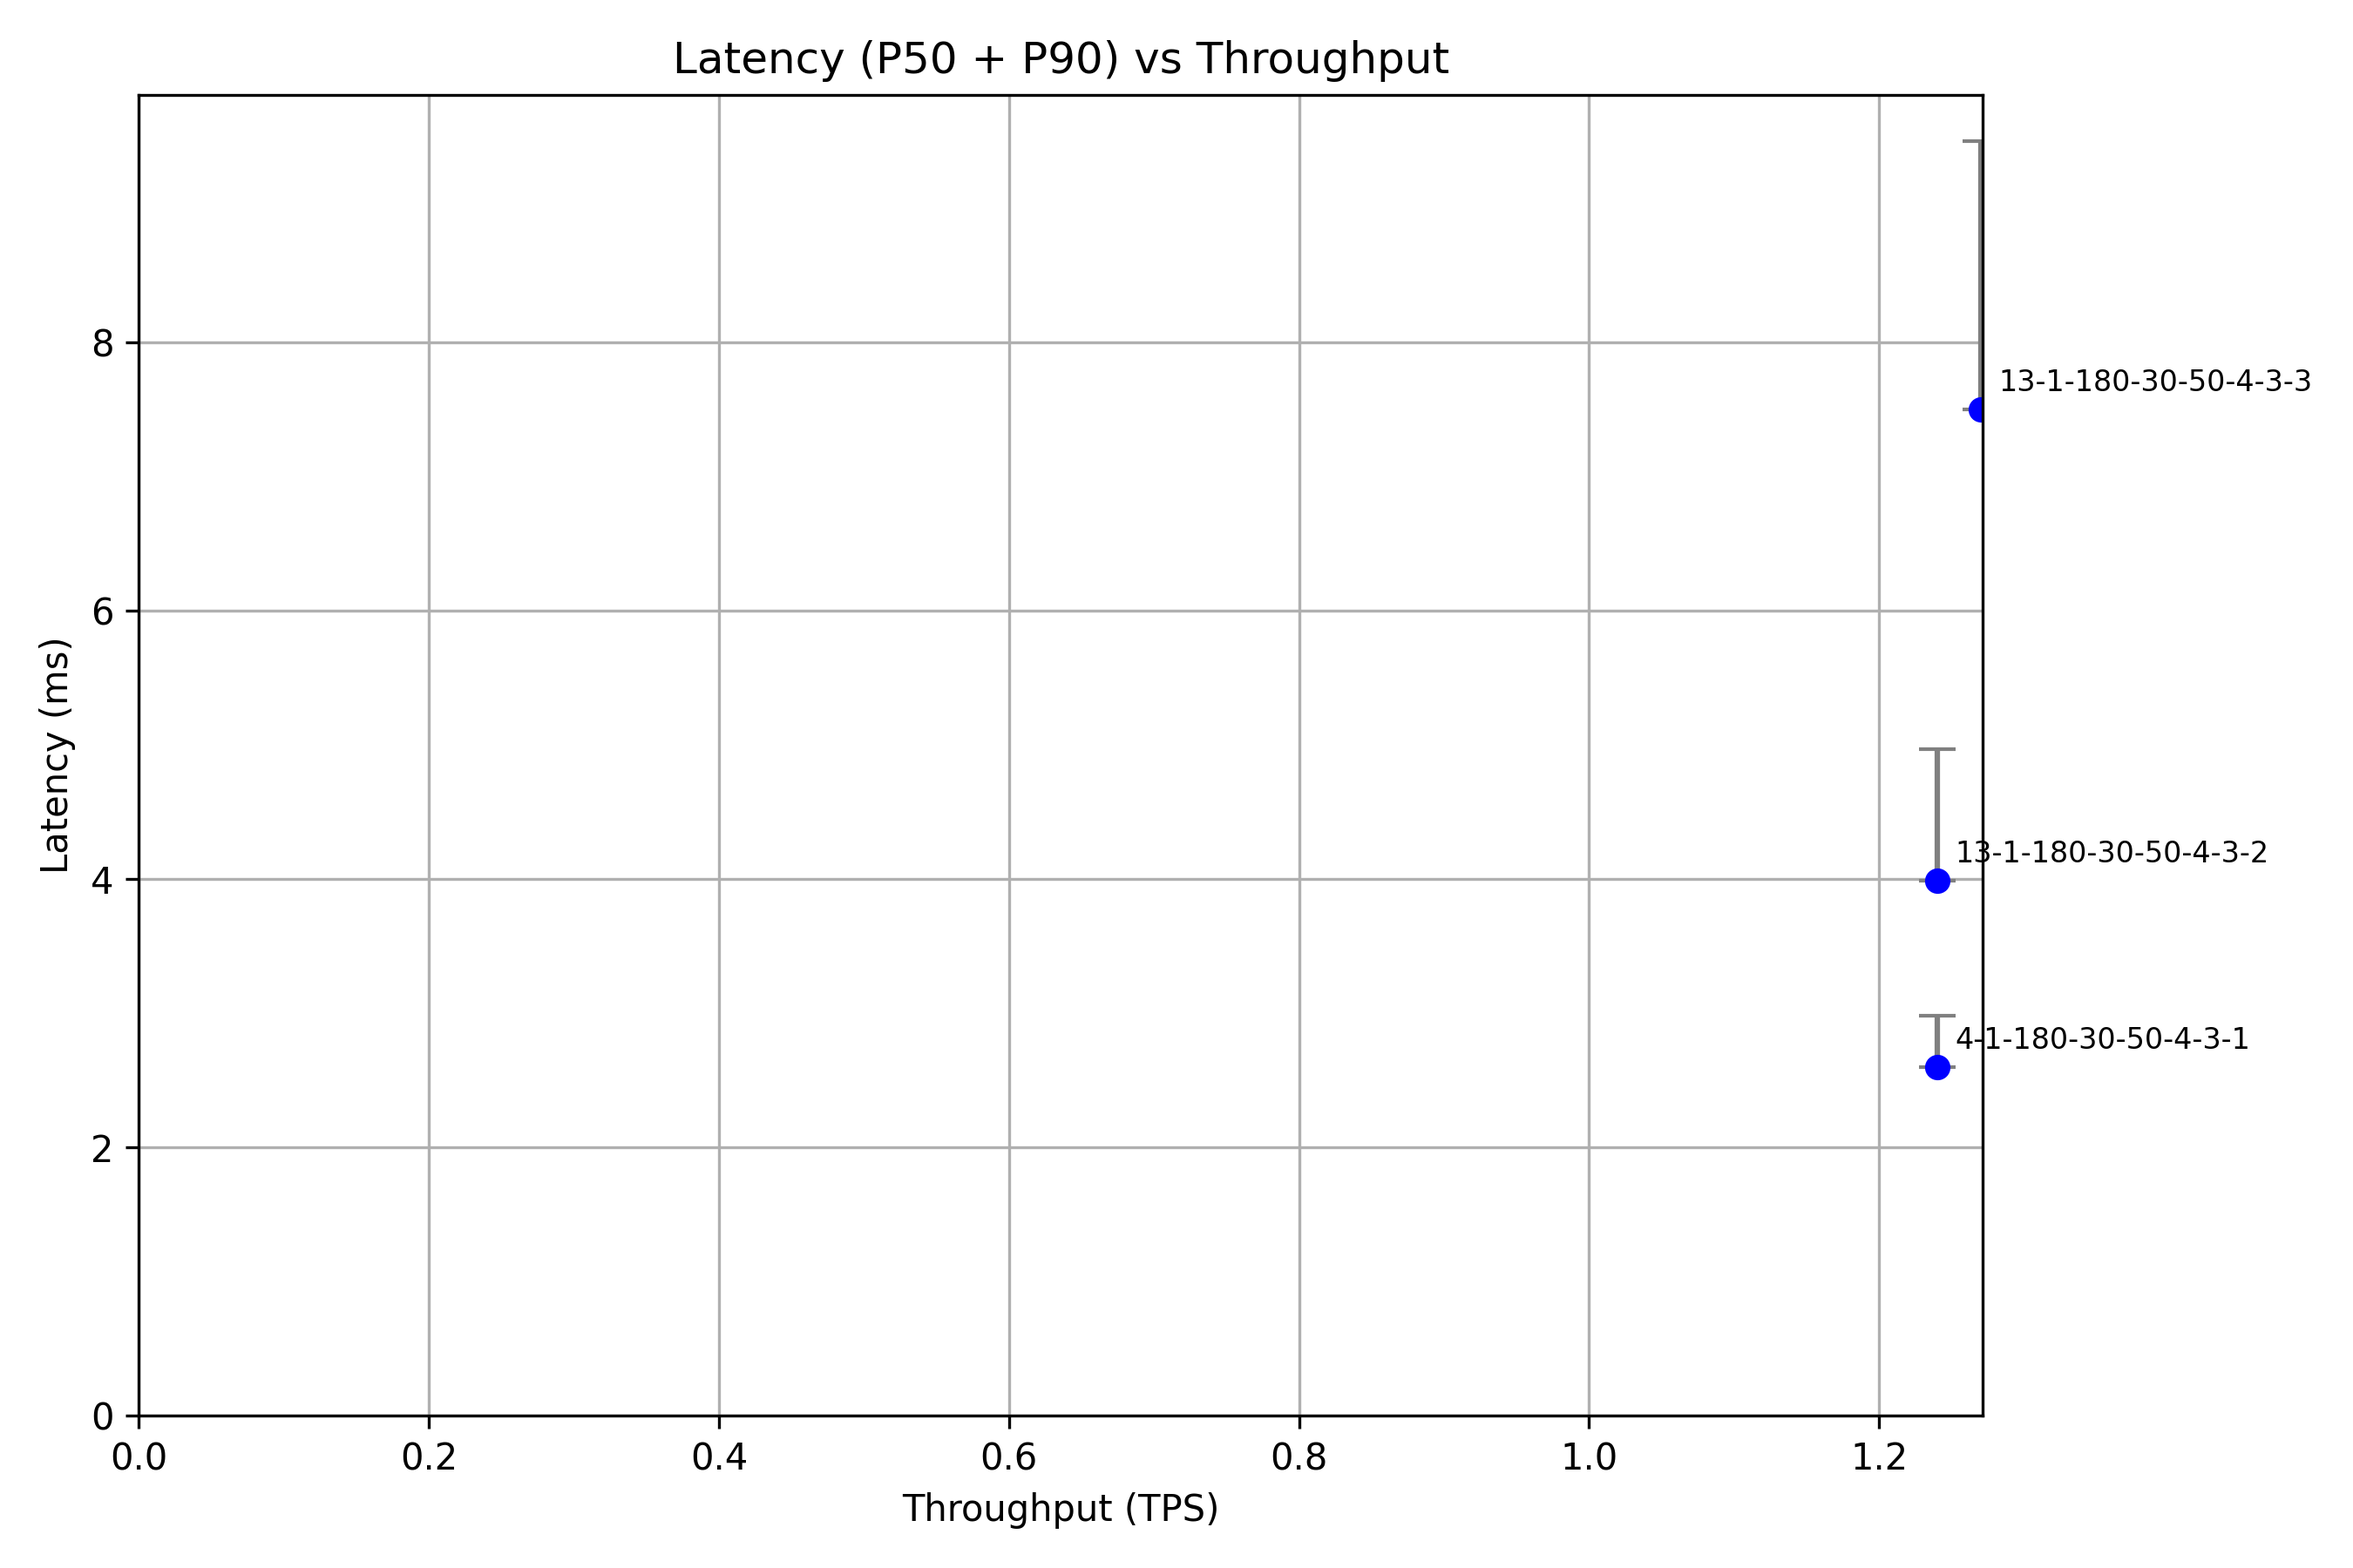
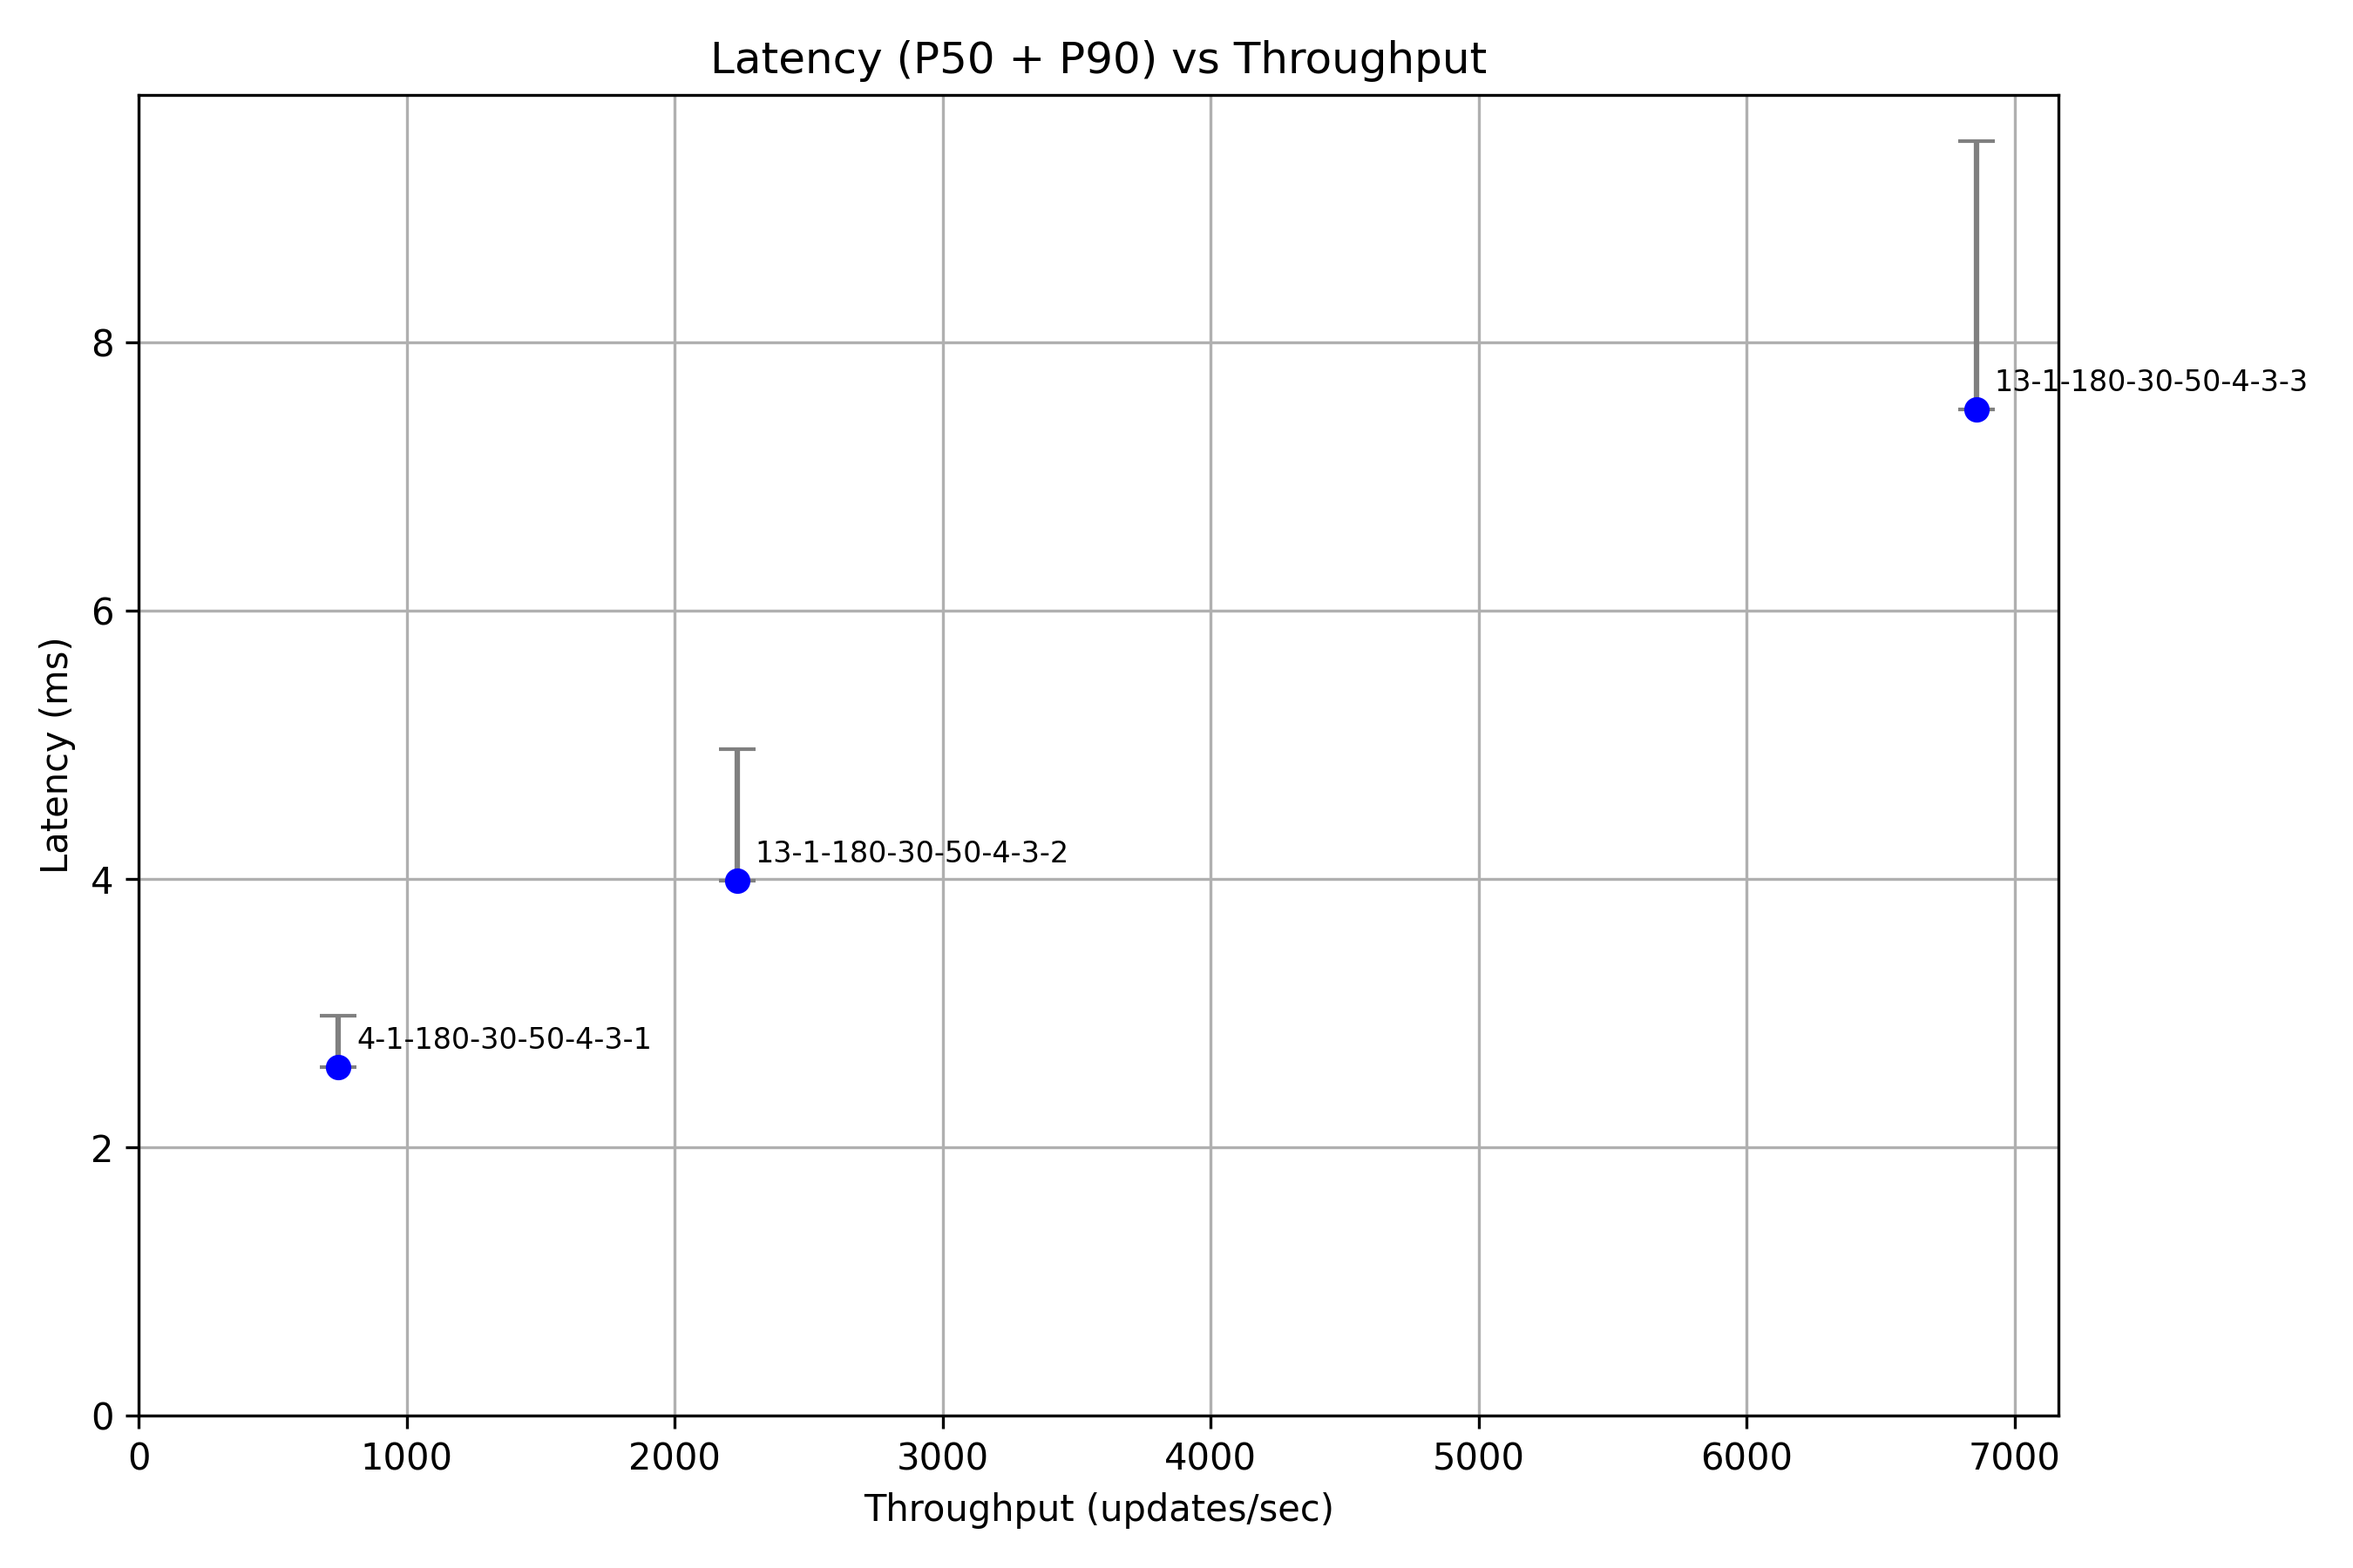
feat: fix graphs with updates/s (#48)

diff --git a/results/plot.py b/results/plot.py
@@ -18,9 +18,21 @@ def read_column_values(csv_path):
 # === Latency vs Throughput plot ===
 
 
-def read_throughput_values(csv_path):
+def read_throughput_values(csv_path, folder_name):
+    parameters = folder_name.split("-")
+    batch_size = parameters[4]
+    num_batches_per_sub_bundle = parameters[5]
+    branching_factor = parameters[6]
+    num_compression_levels = parameters[7]
+
+    multiplier = (
+        int(batch_size)
+        * int(num_batches_per_sub_bundle)
+        * int(branching_factor) ** int(num_compression_levels)
+    )
+
     _, rows = read_column_values(csv_path)
-    return [float(row[1]) for row in rows]
+    return [float(row[1]) * multiplier for row in rows]
 
 
 def read_latency_values(csv_path):
@@ -42,7 +54,7 @@ def process_latency_throughput(folders):
             print(f"Missing TPS/latency file in {folder}")
             continue
         try:
-            tps = read_throughput_values(tps_path)
+            tps = read_throughput_values(tps_path, folder)
             p50, p90 = read_latency_values(latency_path)
             results.append((folder, np.median(tps), np.median(p50), np.median(p90)))
         except Exception as e:
@@ -78,7 +90,7 @@ def plot_latency_vs_throughput(data, output_prefix="latency_vs_throughput"):
         )
 
     plt.title("Latency (P50 + P90) vs Throughput")
-    plt.xlabel("Throughput (TPS)")
+    plt.xlabel("Throughput (updates/sec)")
     plt.ylabel("Latency (ms)")
     plt.ylim(bottom=0)
     plt.xlim(left=0)
